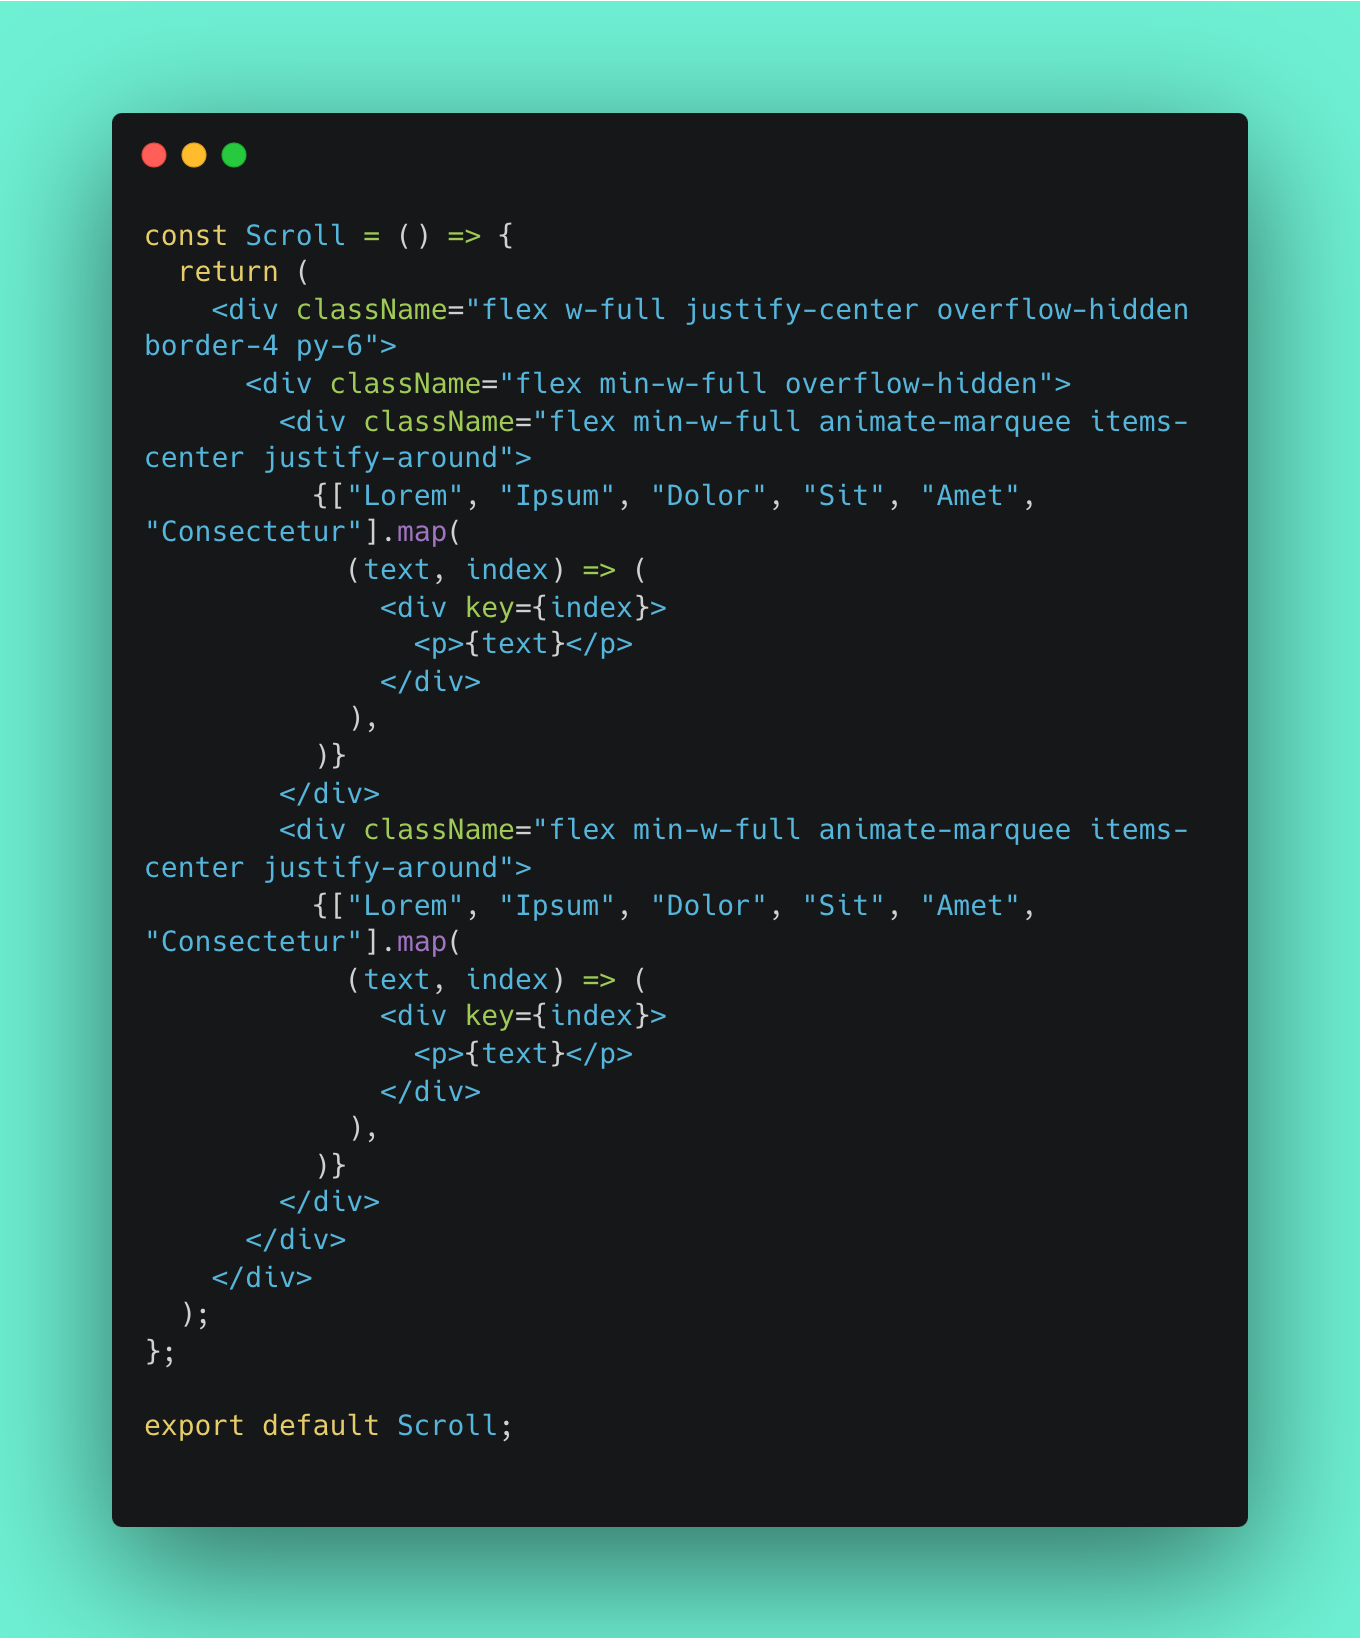
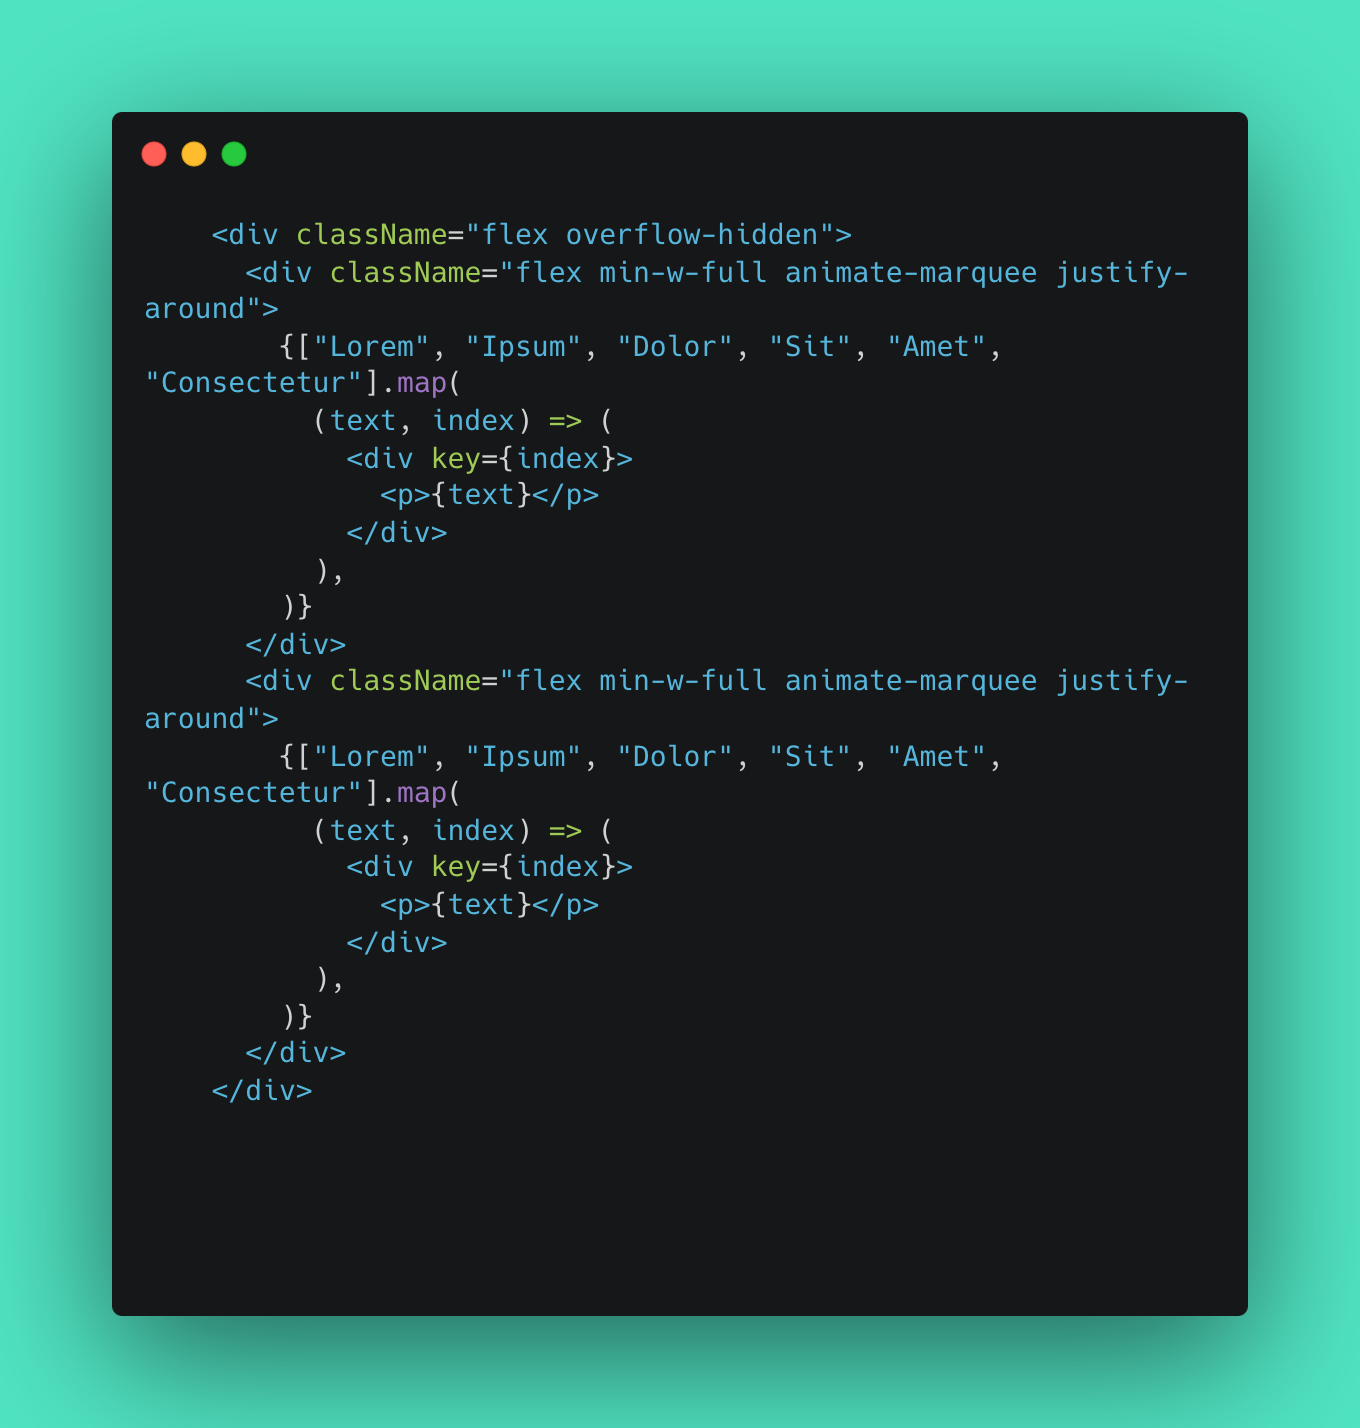
update blog ocmponents

diff --git a/components/blogComponents/scroll.jsx b/components/blogComponents/scroll.jsx
@@ -1,25 +1,23 @@
 const Scroll = () => {
   return (
-    <div className="my-6 flex w-full justify-center overflow-hidden bg-black py-6 text-white">
-      <div className="flex min-w-full overflow-hidden">
-        <div className="flex min-w-full animate-marquee items-center justify-around">
-          {["Lorem", "Ipsum", "Dolor", "Sit", "Amet", "Consectetur"].map(
-            (text, index) => (
-              <div key={index}>
-                <p>{text}</p>
-              </div>
-            ),
-          )}
-        </div>
-        <div className="flex min-w-full animate-marquee items-center justify-around">
-          {["Lorem", "Ipsum", "Dolor", "Sit", "Amet", "Consectetur"].map(
-            (text, index) => (
-              <div key={index}>
-                <p>{text}</p>
-              </div>
-            ),
-          )}
-        </div>
+    <div className="flex overflow-hidden">
+      <div className="flex min-w-full animate-marquee justify-around">
+        {["Lorem", "Ipsum", "Dolor", "Sit", "Amet", "Consectetur"].map(
+          (text, index) => (
+            <div key={index}>
+              <p>{text}</p>
+            </div>
+          ),
+        )}
+      </div>
+      <div className="flex min-w-full animate-marquee justify-around">
+        {["Lorem", "Ipsum", "Dolor", "Sit", "Amet", "Consectetur"].map(
+          (text, index) => (
+            <div key={index}>
+              <p>{text}</p>
+            </div>
+          ),
+        )}
       </div>
     </div>
   );

diff --git a/tailwind.config.js b/tailwind.config.js
@@ -76,7 +76,7 @@ module.exports = {
         },
       },
       animation: {
-        marquee: "marquee 20s linear infinite",
+        marquee: "marquee 10s linear infinite",
         "accordion-down": "accordion-down 0.2s ease-out",
         "accordion-up": "accordion-up 0.2s ease-out",
       },

diff --git a/components/blogComponents/header.jsx b/components/blogComponents/header.jsx
@@ -1,7 +1,7 @@
 export default function Header() {
   return (
     <>
-      <h1 className="mt-36 text-center text-2xl font-bold">
+      <h1 className="mt-24 text-center text-2xl font-bold">
         News Ticker built with Tailwind
       </h1>
     </>

diff --git a/components/blogComponents/textBox.jsx b/components/blogComponents/textBox.jsx
@@ -1,7 +1,7 @@
 export default function Textbox({ text }) {
   return (
     <>
-      <p className="m-6 rounded-lg px-14 py-4 dark:bg-zinc-800 ">{text}</p>
+      <p className="m-6 rounded-lg px-14 py-4">{text}</p>
     </>
   );
 }
